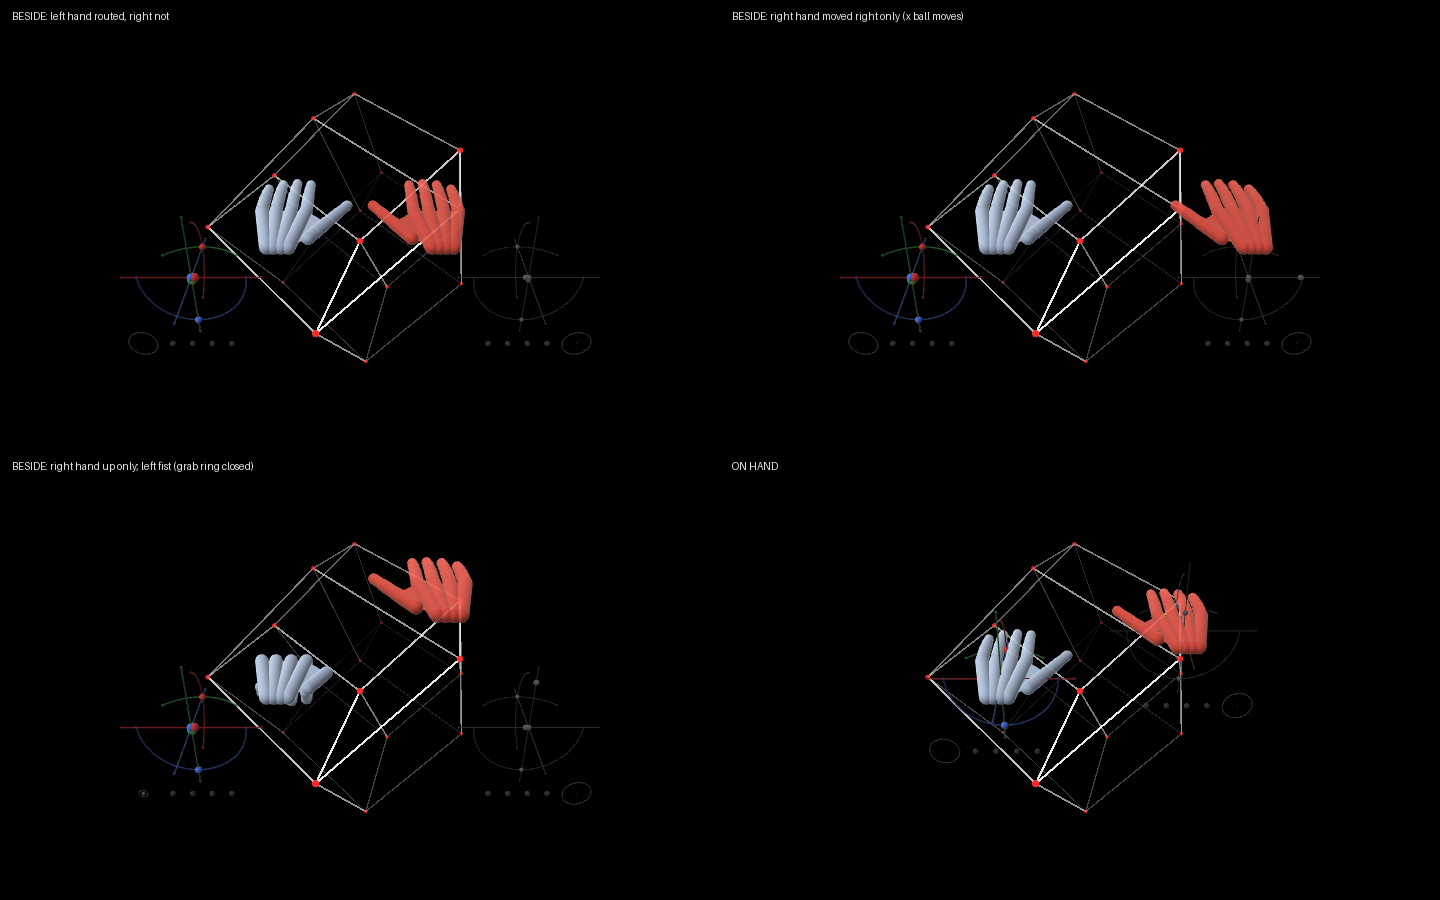
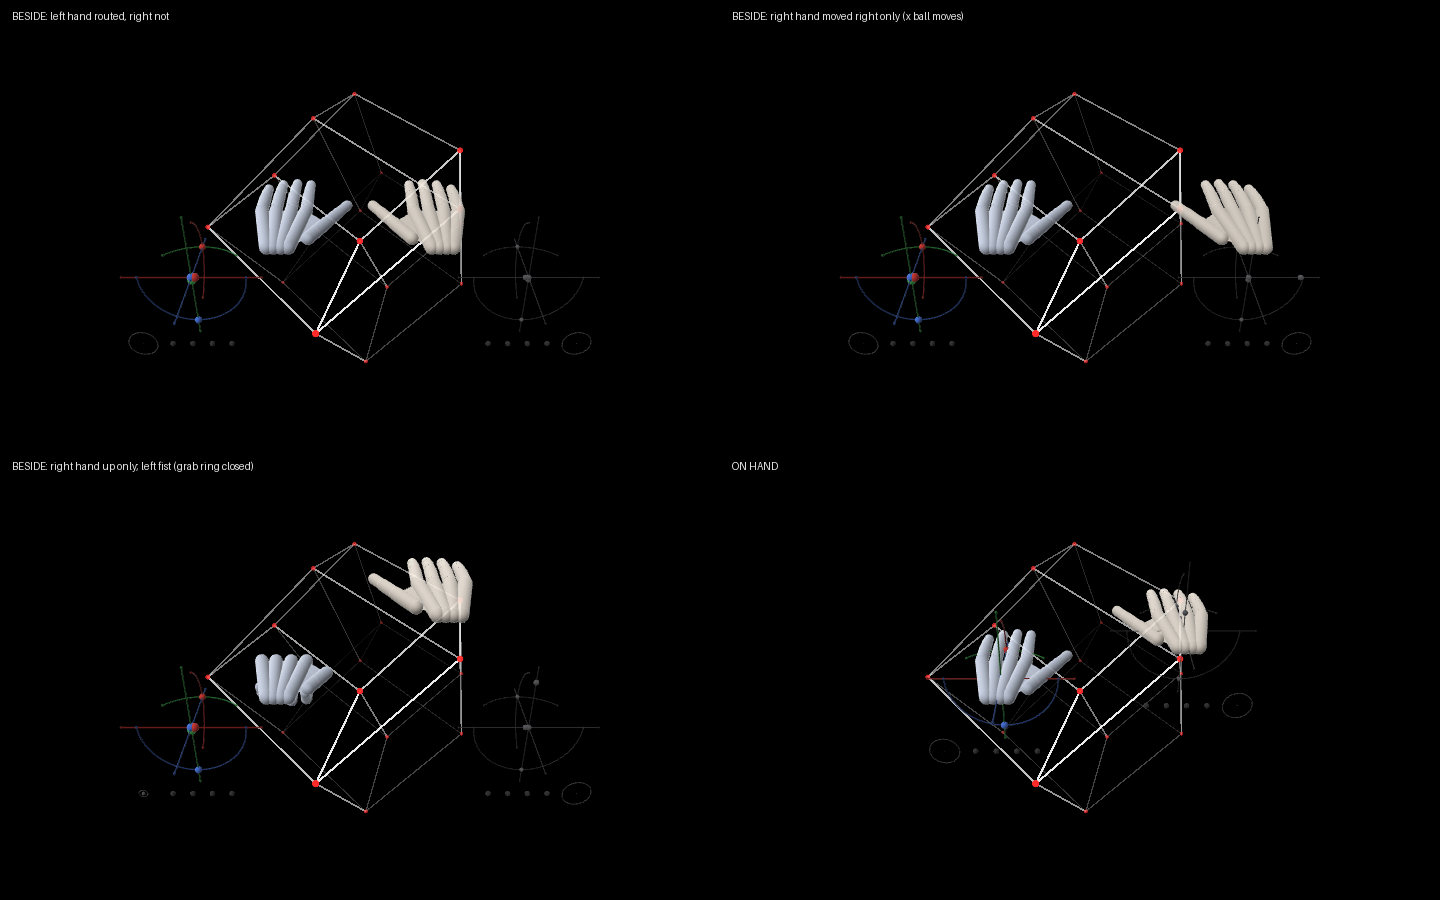
Ghost hands: both near-white
The right hand was red to match the HANDS page's dot, but red now
belongs to the guide's x axis. Both hands are near-white, the left
faintly cool and the right faintly warm so they can still be told apart.

Claude-Session: https://claude.ai/code/session_01WwksnVAVpTPEWPVMvtxgpL

diff --git a/hyperspace-python/tests/test_ghost.py b/hyperspace-python/tests/test_ghost.py
@@ -390,9 +390,11 @@ def test_on_draws_both_hands_and_off_is_the_old_frame_exactly(ctx):
     changed = np.abs(on[..., :3].astype(int) - base[..., :3]).sum(axis=2) > 30
     left, right = changed[:, : W // 2].sum(), changed[:, W // 2:].sum()
     assert left > 400 and right > 400, (left, right)   # one hand on each side
-    # the right hand is red, the left near-white
-    r_px = on[:, W // 2:][changed[:, W // 2:]]
-    assert r_px[:, 0].mean() > r_px[:, 2].mean() + 40
+    # both near-white: the left a little cool, the right a little warm
+    l_px = on[:, : W // 2][changed[:, : W // 2]].astype(int)
+    r_px = on[:, W // 2:][changed[:, W // 2:]].astype(int)
+    assert l_px[:, 2].mean() > l_px[:, 0].mean() and r_px[:, 0].mean() > r_px[:, 2].mean()
+    assert r_px[:, 1].mean() > 0.7 * r_px[:, 0].mean()        # not red: a white
 
 
 def test_a_shader_the_driver_refuses_leaves_the_frame_and_says_why(ctx, monkeypatch):

diff --git a/hyperspace-python/hyperspace/ghost.py b/hyperspace-python/hyperspace/ghost.py
@@ -60,8 +60,9 @@ SAMPLES = 4         # MSAA for the hands' own framebuffer
 FINGER_R = 0.085    # finger radius as a fraction of palm width, when bones give none
 BONE_R = 0.42       # a bone's capsule radius as a fraction of its reported width
 
-# per hand, linear: the HANDS page's colours (left white, right red), cooled
-COLOURS = {"left": (0.80, 0.88, 1.00), "right": (1.00, 0.36, 0.30)}
+# per hand, linear: both near-white — the guide's axes own the colours —
+# with a faint cool / warm tint so the two can still be told apart
+COLOURS = {"left": (0.88, 0.92, 1.00), "right": (1.00, 0.96, 0.91)}
 
 # tracking mode → Leap axes in stage axes: stage = M · leap, rows are the
 # stage's x (right), y (up), z (toward the performer). Desktop is the

diff --git a/hyperspace-python/docs/ENGINEERING.md b/hyperspace-python/docs/ENGINEERING.md
@@ -391,8 +391,8 @@ display for the performer and for newcomers, not a control source.
   screentop and HMD are not measured (see `MODES`).
 - **The geometry.** `CapsuleHands`: a sphere per joint, a capsule per
   bone, a palm (the four finger metacarpals' bases and knuckles, and the
-  thumb web), lit with one light and a rim, one colour per hand (left
-  near-white, right red, as the HANDS page draws them). A palm-only
+  thumb web), lit with one light and a rim, both hands near-white (left
+  faintly cool, right faintly warm: the guide's axes own the colours). A palm-only
   skeleton draws the palm as an ellipse. `HandPose` is the data path —
   stage-space joints plus the bones' raw rotations and the basis — so a
   skinned mesh can replace `CapsuleHands` behind the same

diff --git a/hyperspace-python/docs/plans/11-hand-checks.md b/hyperspace-python/docs/plans/11-hand-checks.md
@@ -749,8 +749,9 @@ screen); about 15 minutes. First, headless:
 **47. The ghost hands follow the real ones.**
 Launch, HANDS page, tick **Ghost hands** (`ghost.on`), opacity about
 60 %. Sit where you perform, both hands in the box. *Pass:* (a) **left
-and right not swapped** — raise only your left hand: the near-white hand
-moves, on the left of the render; the right hand is red, on the right.
+and right not swapped** — raise only your left hand: the hand on the left
+of the render moves (the faintly cool one); the right hand, faintly warm,
+is on the right.
 (b) **Fingers track** — spread, close to a fist, pinch thumb to each
 finger in turn, point with one finger: every finger follows, the thumb
 on the correct side of each hand, nothing bending backwards. (c)
